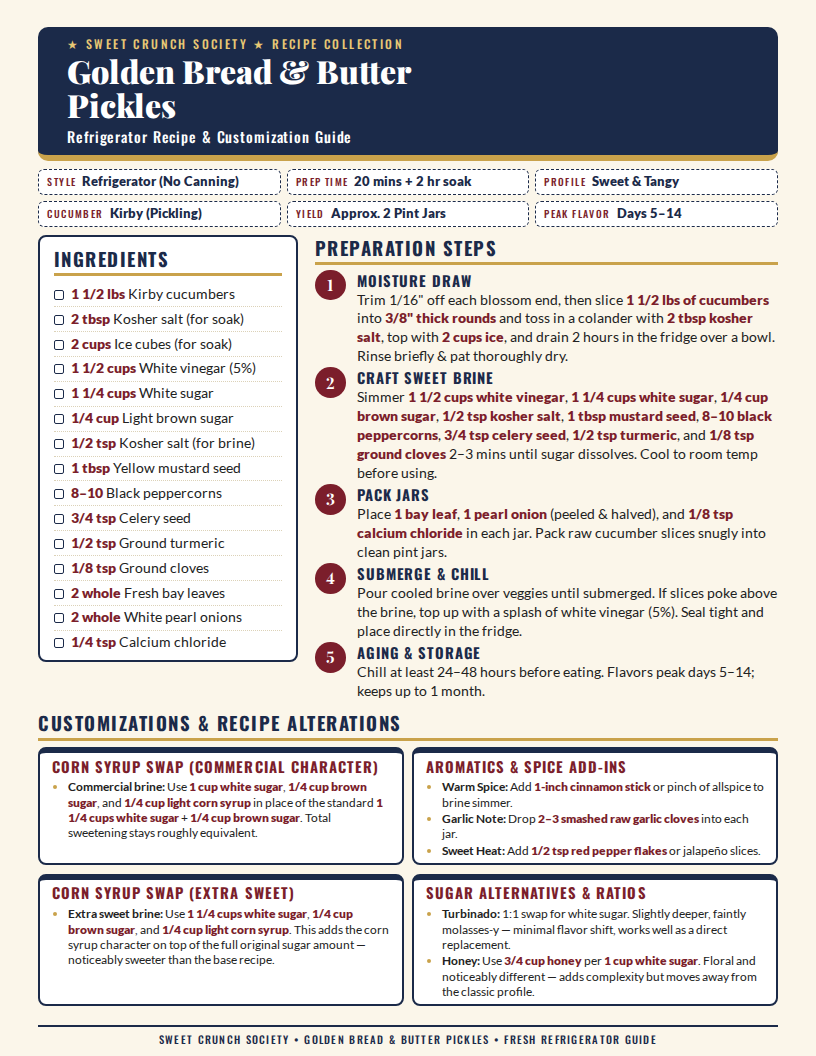
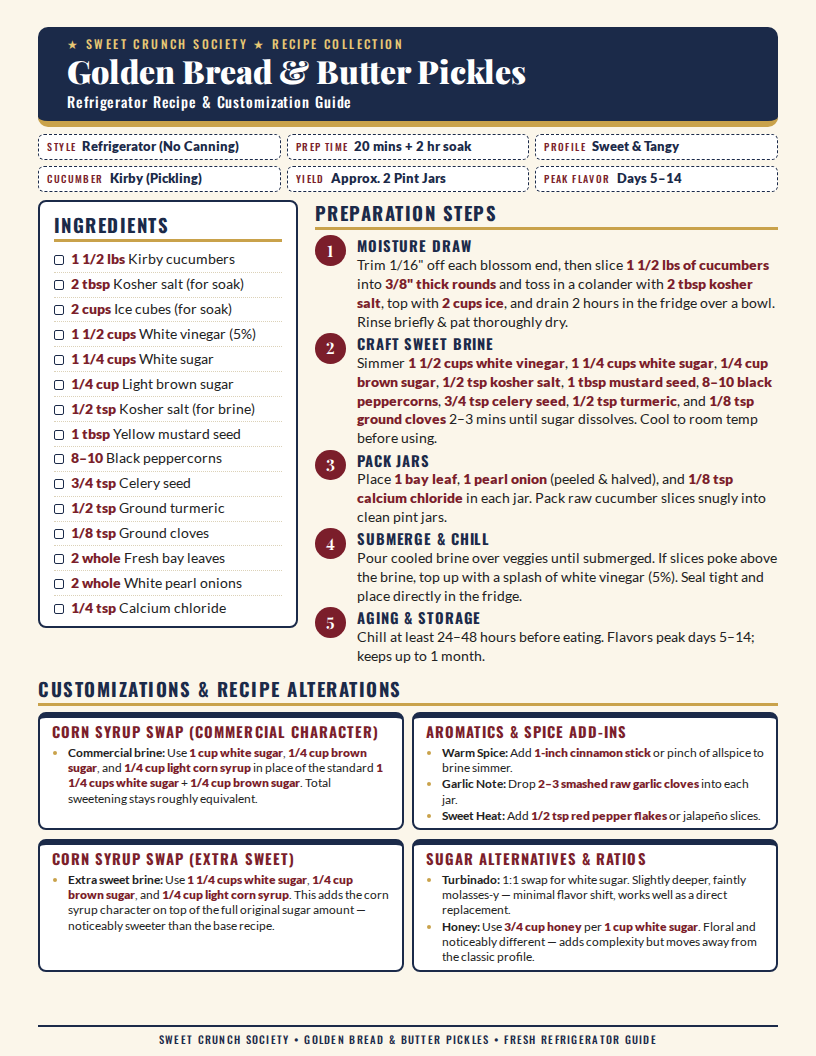
style: fit Golden Bread & Butter Pickles title on one line
Remove the 4.5in max-width on the header h1 so the title no longer wraps.
The header is ~35px shorter, freeing space above the footer for more
content in the four customization cards. Regenerated docs/preview.png.

Changed region(s): [[0.0306, 0.0312, 0.9498, 0.9688]]

diff --git a/index.html b/index.html
@@ -50,7 +50,7 @@
   }
   header h1 {
     font-family: 'Playfair Display', serif; font-weight: 900;
-    font-size: 24pt; line-height: 1.08; margin: 2px 0 4px; max-width: 4.5in;
+    font-size: 24pt; line-height: 1.08; margin: 2px 0 4px;
   }
   header .sub { font-family: 'Oswald', sans-serif; font-size: 11pt; letter-spacing: .06em; font-weight: 500; }
 
